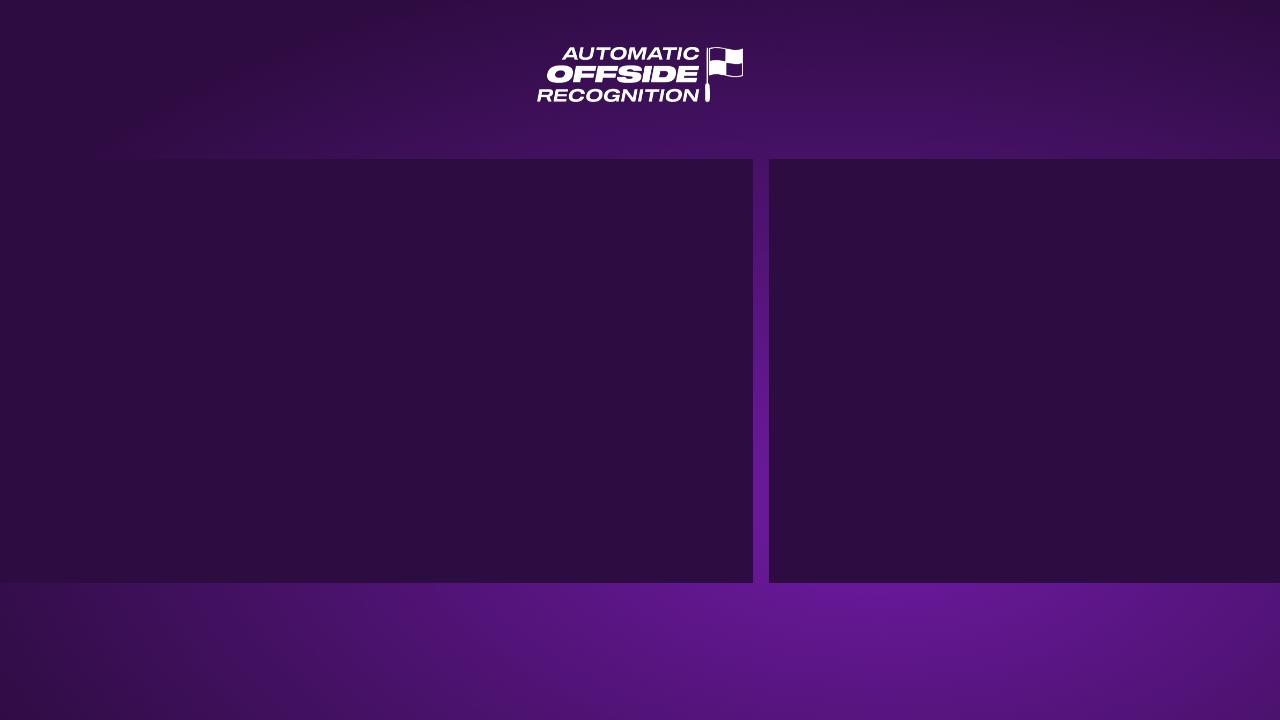
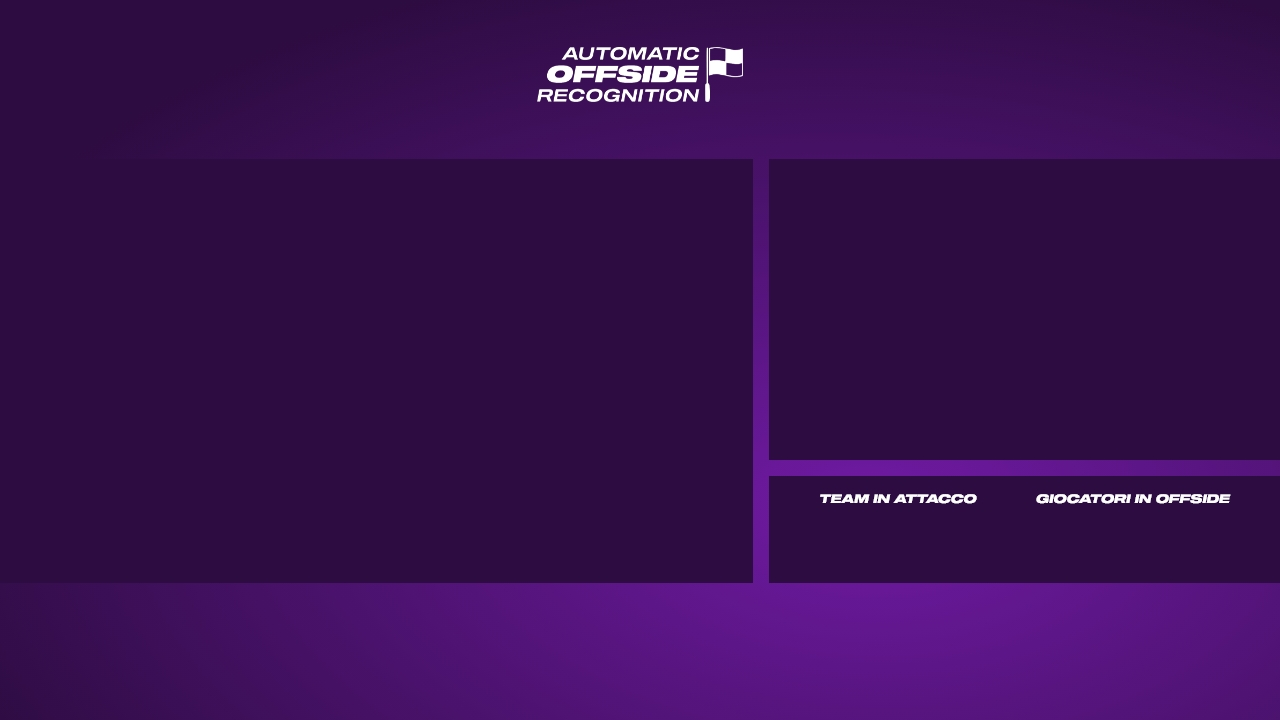
GUI aggiornata
design schermata finale, manca solo il font

Changed region(s): [[0.5938, 0.6417, 1.0, 0.7028]]

diff --git a/mainGUI cucinato.py b/mainGUI cucinato.py
@@ -1,10 +1,43 @@
+import time
 import tkinter as tk
-from tkinter import filedialog
+from tkinter import PhotoImage, filedialog
 from PIL import ImageTk, Image
 from tkinter import Canvas, Label
 import os
 from PIL import Image, ImageTk, ImageEnhance
-import threading
+from tkinter import font
+import tkinter as tk
+import tkinter as tk
+import _thread
+import pyglet
+
+class gifplay:
+
+        def __init__(self,label,gif_file_path,delay):
+            self.frame=[]
+            i=0
+            while 1:
+                try:
+                    image=PhotoImage(file = gif_file_path, format="gif -index "+str(i))
+                    self.frame.append(image)
+                    i=i+1
+                except:
+                    break
+            print(i)
+            self.totalFrames=i-1
+            self.delay=delay
+            self.labelspace=label
+            self.labelspace.image=self.frame[0]
+
+        def play(self):
+            _thread.start_new_thread(self.infinite,())
+
+        def infinite(self):
+            i=0
+            while 1:
+                self.labelspace.configure(image=self.frame[i])
+                i=(i+1)%self.totalFrames
+                time.sleep(self.delay)
 
 def reduce_brightness(image, factor=0.7):
     enhancer = ImageEnhance.Brightness(image)
@@ -16,7 +49,7 @@ def seleziona_immagine():
     if file_path:
         impostazioni_preprocessamento(file_path)
 
-def visualizza_immagine(file_path, team):
+def visualizza_immagine(file_path, team, players):
     background = Image.open("Automatic Offside Recognition GUI/src/images/result.jpg")
     background = background.resize((1280, 720))
     background = ImageTk.PhotoImage(background)
@@ -30,10 +63,13 @@ def visualizza_immagine(file_path, team):
     canvas.create_image(0, 159, anchor=tk.NW, image=img)
     
     img2 = Image.open("Automatic Offside Recognition GUI/src/offside/pitch2D.png")
-    img2 = img2.resize((512, 300))
+    x = 1050
+    y = 680
+    res = 2.4
+    img2 = img2.resize((int(x/res), int(y/res)))
     img2 = ImageTk.PhotoImage(img2)
     canvas.img2 = img2
-    canvas.create_image(769, 159, anchor=tk.NW, image=img2)
+    canvas.create_image(810, 168, anchor=tk.NW, image=img2)
 
     restart_button_img = Image.open("Automatic Offside Recognition GUI/src/elements/restart_button.png")
     restart_button_img_resized = restart_button_img.resize((200, 50))
@@ -57,28 +93,52 @@ def visualizza_immagine(file_path, team):
     canvas.tag_bind(restart_button, '<Enter>', on_enter_restart)
     canvas.tag_bind(restart_button, '<Leave>', on_leave_restart)
 
-    # Aggiungi il testo bianco sotto il pitch 2D
-    team_label = tk.Label(root, text=f"Team {team} in attacco", font=('Helvetica', 12, 'bold'), fg='white')
-    team_label.config(bg='#2D0C41')  # Imposta il colore di sfondo su #2D0C41
-  # Imposta il colore di sfondo su trasparente
-    canvas.create_window(780, 469, anchor=tk.NW, window=team_label)
+    team_label = tk.Label(root, text=f"{team}", font=('Helvetica', 30, 'bold'), fg='white')
+    team_label.config(bg='#2D0C41')
+    team_label.pack()
 
-    team_label2 = tk.Label(root, text=f"Giocatori in fuorigioco -players-", font=('Helvetica', 12, 'bold'), fg='white')
+    canvas.create_window(880, 515, anchor=tk.NW, window=team_label)
+
+    team_label2 = tk.Label(root, text=f"{players}", font=('Helvetica', 30, 'bold'), fg='white')
     team_label2.config(bg='#2D0C41')  # Imposta il colore di sfondo su #2D0C41
   # Imposta il colore di sfondo su trasparente
-    canvas.create_window(780, 500, anchor=tk.NW, window=team_label2)
+    canvas.create_window(1110, 515, anchor=tk.NW, window=team_label2)
 
 
-def schermata_di_caricamento():
-    # Mostra la schermata vuota con la rotella di caricamento
+def schermata_di_caricamento(file_path, team):
     canvas.delete("all")
-    canvas.create_text(640, 360, text="Caricamento...", font=('Helvetica', 20))
+    background = Image.open('Automatic Offside Recognition GUI/src/images/waiting.jpg')
+    background = background.resize((1280, 720))
+    background = ImageTk.PhotoImage(background)
+    canvas.background = background
+    canvas.create_image(0, 0, anchor=tk.NW, image=background)
+
+    def handle_keypress(event):
+        global stop
+        stop = True
+        visualizza_immagine(file_path, team, 12)
+
+    root.bind("<Key>", handle_keypress)
+
+
+
+def schermata_di_caricamento_gif(file_path, team):
+
+    gif_file_path = "Automatic Offside Recognition GUI\src\loading.gif"
+
+    background_image = Image.open("Automatic Offside Recognition GUI\src\images\start.jpg")
+    background_photo = ImageTk.PhotoImage(background_image)
+    label = tk.Label(root, image=background_photo)
+    label.pack()
+    
+    gif = gifplay(label, gif_file_path,0.1)
+    gif.play()
+
 
 def schermata_di_caricamento_loop(file_path, team):
     global stop
-    stop = False  # Variabile per controllare lo stato di arresto
+    stop = False
 
-    # Lista delle immagini di caricamento
     images = [
         Image.open("Automatic Offside Recognition GUI\src\images\image1.jpg"),
         Image.open("Automatic Offside Recognition GUI\src\images\image2.jpg"),
@@ -98,17 +158,14 @@ def schermata_di_caricamento_loop(file_path, team):
             idx = (idx + 1) % len(images)  # Passa all'immagine successiva
             root.after(250, show_image, idx)  # Mostra l'immagine successiva dopo un breve ritardo
 
-    # Funzione per gestire l'evento di pressione del pulsante sulla tastiera
     def handle_keypress(event):
         global stop
-        stop = True  # Imposta lo stato di stop su True
-        visualizza_immagine(file_path, team)  # Visualizza l'immagine
+        stop = True
+        visualizza_immagine(file_path, team)
 
-    # Registra la funzione di gestione per l'evento di pressione del pulsante sulla tastiera
     root.bind("<Key>", handle_keypress)
     
-    # Avvia il loop di caricamento
-    show_image(0)  # Inizia con la prima immagine
+    show_image(0)
 
 def start_view():
     for widget in root.winfo_children():
@@ -146,7 +203,7 @@ def start_view():
 
 def impostazioni_preprocessamento(file_path):
     global team
-    team = ""  # Valore iniziale del team
+    team = "A"  # Valore iniziale del team
 
     background = Image.open("Automatic Offside Recognition GUI/src/images/preprocess.jpg")
     background = background.resize((1280, 720))
@@ -217,7 +274,7 @@ def impostazioni_preprocessamento(file_path):
 
     canvas.tag_bind(teamA_button, '<Button-1>', lambda event: scegli_team("A"))
     canvas.tag_bind(teamB_button, '<Button-1>', lambda event: scegli_team("B"))
-    canvas.tag_bind(process_button, '<Button-1>', lambda event: schermata_di_caricamento_loop(file_path, team))
+    canvas.tag_bind(process_button, '<Button-1>', lambda event: schermata_di_caricamento(file_path, team))
     canvas.tag_bind(process_button, '<Enter>', on_enter_process)
     canvas.tag_bind(process_button, '<Leave>', on_leave_process)
 
